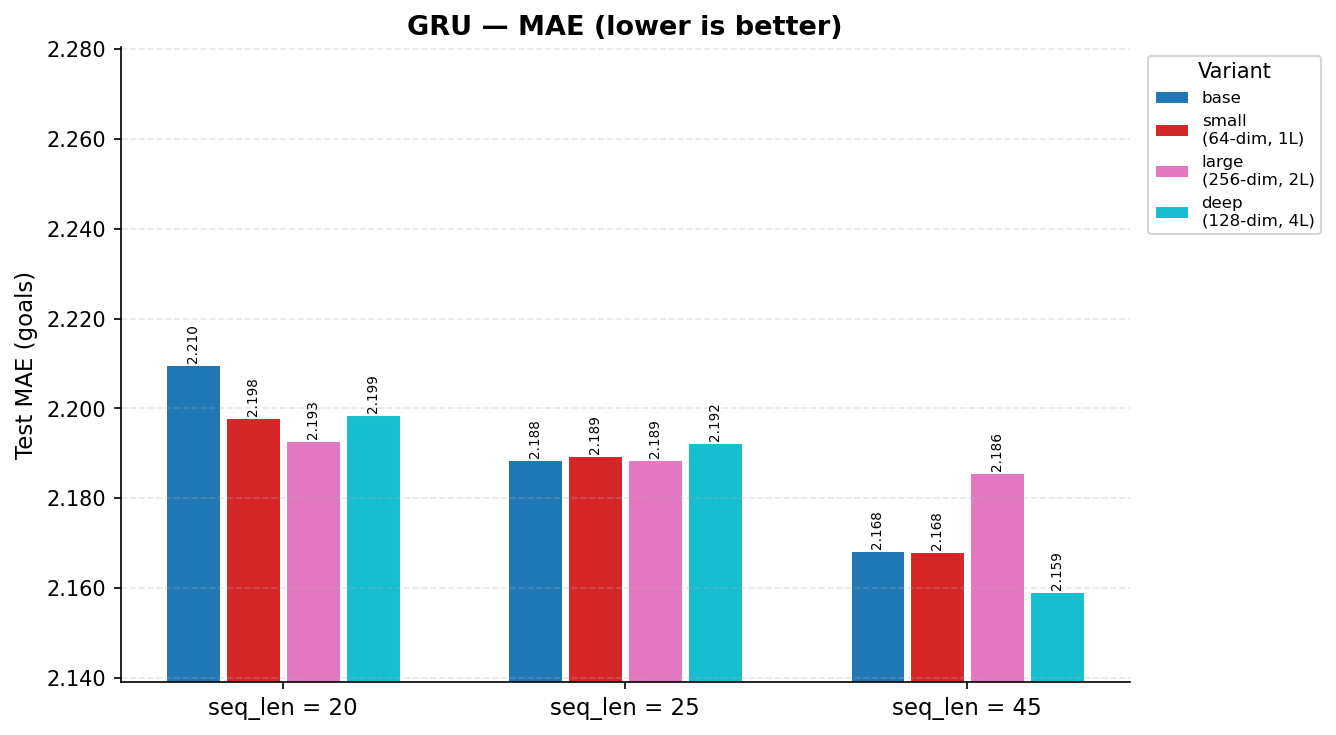
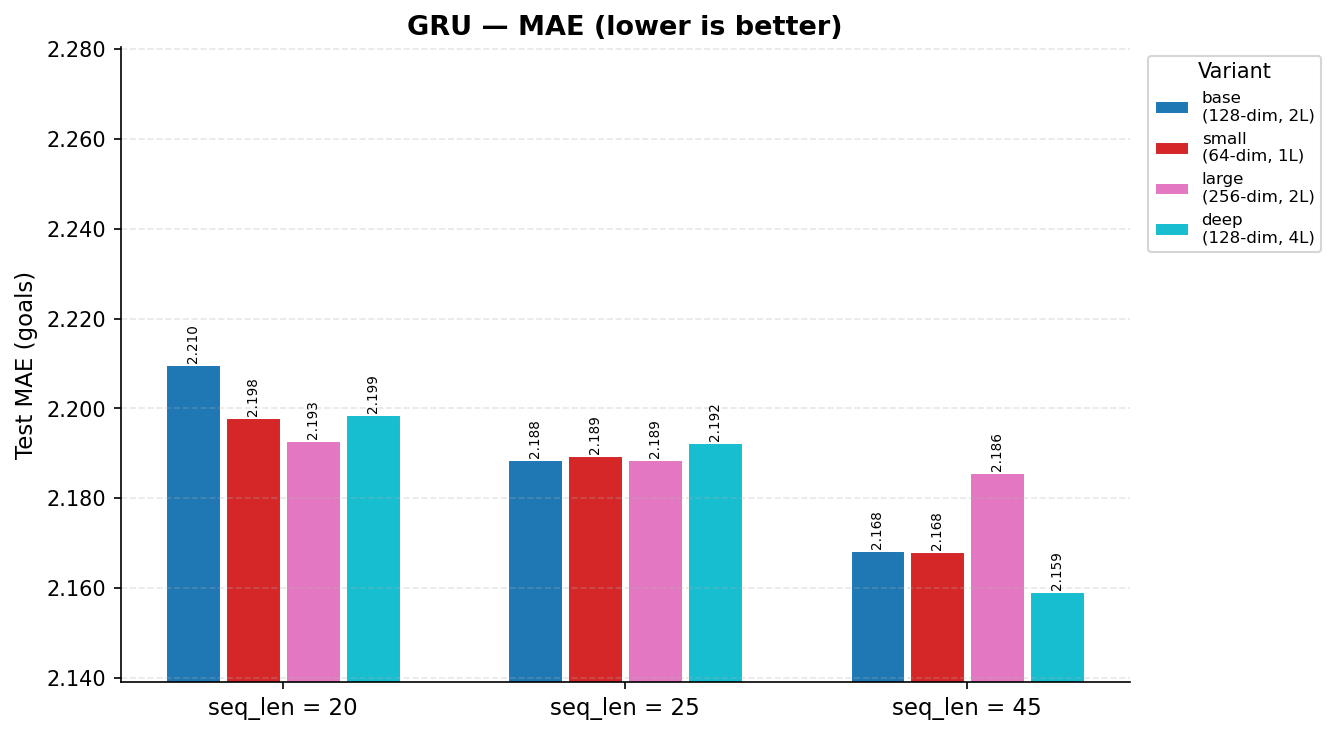
Add dim/layer labels to base variants and model architecture table
- plot_architecture_sweep.py: add "(128-dim, 2L)" to base variant
  labels for RNN, LSTM, GRU so all bars are consistently annotated
- plot_model_table.py: new script generating model_architecture_table.png
  with all 19 configs, columns for hidden/d_model, layers, heads, FFN dim,
  head MLP dim, dropout, and approximate encoder+head param count

Changed region(s): [[0.8593, 0.1197, 1.0, 0.3592]]

diff --git a/scripts/plot_model_table.py b/scripts/plot_model_table.py
@@ -1,0 +1,174 @@
+"""Generate a model architecture reference table image.
+
+Columns: Family | Variant | Type | Hidden/d_model | Layers | Heads | FFN dim | Head MLP | Dropout
+Saved to notebooks/model_architecture_table.png
+"""
+
+from __future__ import annotations
+
+from pathlib import Path
+
+import matplotlib.pyplot as plt
+import matplotlib.patches as mpatches
+import numpy as np
+
+OUT_DIR = Path(__file__).parents[1] / "notebooks"
+OUT_DIR.mkdir(exist_ok=True)
+
+# ------------------------------------------------------------------
+# Model definitions
+# Each row: (family, variant, model_type, hidden/d_model, num_layers,
+#            nhead, ffn_dim, head_hidden_dim, dropout)
+# nhead/ffn_dim = "—" for RNN/LSTM/GRU
+# ------------------------------------------------------------------
+ROWS = [
+    # RNN family
+    ("RNN", "base",  "rnn",  128, 2, "—", "—",  128, 0.1),
+    ("RNN", "small", "rnn",   64, 1, "—", "—",   64, 0.1),
+    ("RNN", "large", "rnn",  256, 2, "—", "—",  256, 0.1),
+    ("RNN", "deep",  "rnn",  128, 4, "—", "—",  128, 0.1),
+    # LSTM family
+    ("LSTM", "base",  "lstm", 128, 2, "—", "—",  128, 0.1),
+    ("LSTM", "small", "lstm",  64, 1, "—", "—",   64, 0.1),
+    ("LSTM", "large", "lstm", 256, 2, "—", "—",  256, 0.1),
+    ("LSTM", "deep",  "lstm", 128, 4, "—", "—",  128, 0.1),
+    # GRU family
+    ("GRU", "base",  "gru",  128, 2, "—", "—",  128, 0.1),
+    ("GRU", "small", "gru",   64, 1, "—", "—",   64, 0.1),
+    ("GRU", "large", "gru",  256, 2, "—", "—",  256, 0.1),
+    ("GRU", "deep",  "gru",  128, 4, "—", "—",  128, 0.1),
+    # Transformer family
+    ("Transformer", "small",          "transformer",  128, 2, 4, 256,  128, 0.1),
+    ("Transformer", "medium",         "transformer",  256, 4, 8, 512,  256, 0.1),
+    ("Transformer", "tiny",           "transformer",   64, 2, 2, 128,   64, 0.1),
+    ("Transformer", "small-deep",     "transformer",  128, 4, 4, 256,  128, 0.1),
+    ("Transformer", "med-shallow",    "transformer",  256, 2, 8, 512,  256, 0.1),
+    ("Transformer", "deep",           "transformer",  256, 6, 8, 512,  256, 0.1),
+    ("Transformer", "large",          "transformer",  512, 4, 8,1024,  256, 0.1),
+]
+
+HEADERS = [
+    "Family", "Variant", "Type",
+    "Hidden /\nd_model", "Layers", "Heads\n(attn)", "FFN\ndim",
+    "Head\nMLP dim", "Dropout",
+]
+
+# Approximate encoder parameter count (shared encoder, counted once)
+def approx_params(row):
+    family, variant, mtype, hidden, layers, nhead, ffn, head_mlp, drop = row
+    input_dim = 28  # feature dim
+    if mtype == "rnn":
+        # (input + hidden) * hidden * layers (simplified)
+        enc = layers * (input_dim + hidden) * hidden
+    elif mtype == "lstm":
+        # 4 gates
+        enc = layers * 4 * (input_dim + hidden) * hidden
+    elif mtype == "gru":
+        # 3 gates
+        enc = layers * 3 * (input_dim + hidden) * hidden
+    else:
+        # transformer: input proj + num_layers * (attn + ffn)
+        input_proj = input_dim * hidden
+        attn_per_layer = 4 * hidden * hidden
+        ffn_per_layer = 2 * hidden * ffn
+        enc = input_proj + layers * (attn_per_layer + ffn_per_layer)
+    # MLP head: 2*hidden → head_mlp → 1
+    mlp = 2 * hidden * head_mlp + head_mlp
+    total = enc + mlp
+    if total >= 1_000_000:
+        return f"{total/1e6:.2f}M"
+    return f"{total/1e3:.0f}K"
+
+# ------------------------------------------------------------------
+# Build table data
+# ------------------------------------------------------------------
+col_data = []
+for row in ROWS:
+    family, variant, mtype, hidden, layers, nhead, ffn, head_mlp, drop = row
+    col_data.append([
+        family,
+        variant,
+        mtype,
+        str(hidden),
+        str(layers),
+        str(nhead),
+        str(ffn),
+        str(head_mlp),
+        f"{drop}",
+        approx_params(row),
+    ])
+
+headers_full = HEADERS + ["~Params\n(encoder+head)"]
+
+# ------------------------------------------------------------------
+# Family color bands
+# ------------------------------------------------------------------
+FAMILY_COLORS = {
+    "RNN":         "#d4e6f1",
+    "LSTM":        "#d5f5e3",
+    "GRU":         "#fdebd0",
+    "Transformer": "#f5eef8",
+}
+
+row_colors = []
+for row in ROWS:
+    c = FAMILY_COLORS[row[0]]
+    row_colors.append([c] * len(headers_full))
+
+# ------------------------------------------------------------------
+# Draw
+# ------------------------------------------------------------------
+fig, ax = plt.subplots(figsize=(16, 9))
+ax.axis("off")
+
+tbl = ax.table(
+    cellText=col_data,
+    colLabels=headers_full,
+    cellLoc="center",
+    loc="center",
+    cellColours=row_colors,
+)
+tbl.auto_set_font_size(False)
+tbl.set_fontsize(9)
+tbl.scale(1, 1.55)
+
+# Style header row
+for j in range(len(headers_full)):
+    cell = tbl[0, j]
+    cell.set_facecolor("#2c3e50")
+    cell.set_text_props(color="white", fontweight="bold")
+
+# Bold family name only on first row of each family group
+prev_family = None
+for i, row in enumerate(ROWS):
+    if row[0] != prev_family:
+        tbl[i + 1, 0].set_text_props(fontweight="bold")
+        prev_family = row[0]
+
+# Divider lines between families
+family_breaks = []
+prev = ROWS[0][0]
+for i, row in enumerate(ROWS[1:], 1):
+    if row[0] != prev:
+        family_breaks.append(i)
+        prev = row[0]
+
+for break_row in family_breaks:
+    for j in range(len(headers_full)):
+        tbl[break_row, j].visible_edges = "TBL" if j == 0 else ("TBR" if j == len(headers_full)-1 else "TB")
+
+# Legend
+patches = [mpatches.Patch(color=c, label=f) for f, c in FAMILY_COLORS.items()]
+ax.legend(handles=patches, loc="lower center", ncol=4,
+          bbox_to_anchor=(0.5, -0.02), fontsize=9, title="Model Family")
+
+ax.set_title(
+    "NHL Architecture Sweep — Model Configurations",
+    fontsize=14, fontweight="bold", pad=12,
+)
+
+plt.tight_layout()
+out = OUT_DIR / "model_architecture_table.png"
+plt.savefig(out, dpi=150, bbox_inches="tight")
+plt.close()
+print(f"Saved {out.name}")

diff --git a/scripts/plot_architecture_sweep.py b/scripts/plot_architecture_sweep.py
@@ -87,19 +87,19 @@ DATA: dict[tuple[str, str], tuple[float, float, float]] = {
 # ------------------------------------------------------------------
 FAMILIES: dict[str, list[tuple[str, str]]] = {
     "RNN": [
-        ("base", "rnn_base"),
+        ("base\n(128-dim, 2L)", "rnn_base"),
         ("small\n(64-dim, 1L)", "rnn_small"),
         ("large\n(256-dim, 2L)", "rnn_large"),
         ("deep\n(128-dim, 4L)", "rnn_deep"),
     ],
     "LSTM": [
-        ("base", "lstm_base"),
+        ("base\n(128-dim, 2L)", "lstm_base"),
         ("small\n(64-dim, 1L)", "lstm_small"),
         ("large\n(256-dim, 2L)", "lstm_large"),
         ("deep\n(128-dim, 4L)", "lstm_deep"),
     ],
     "GRU": [
-        ("base", "gru_base"),
+        ("base\n(128-dim, 2L)", "gru_base"),
         ("small\n(64-dim, 1L)", "gru_small"),
         ("large\n(256-dim, 2L)", "gru_large"),
         ("deep\n(128-dim, 4L)", "gru_deep"),
